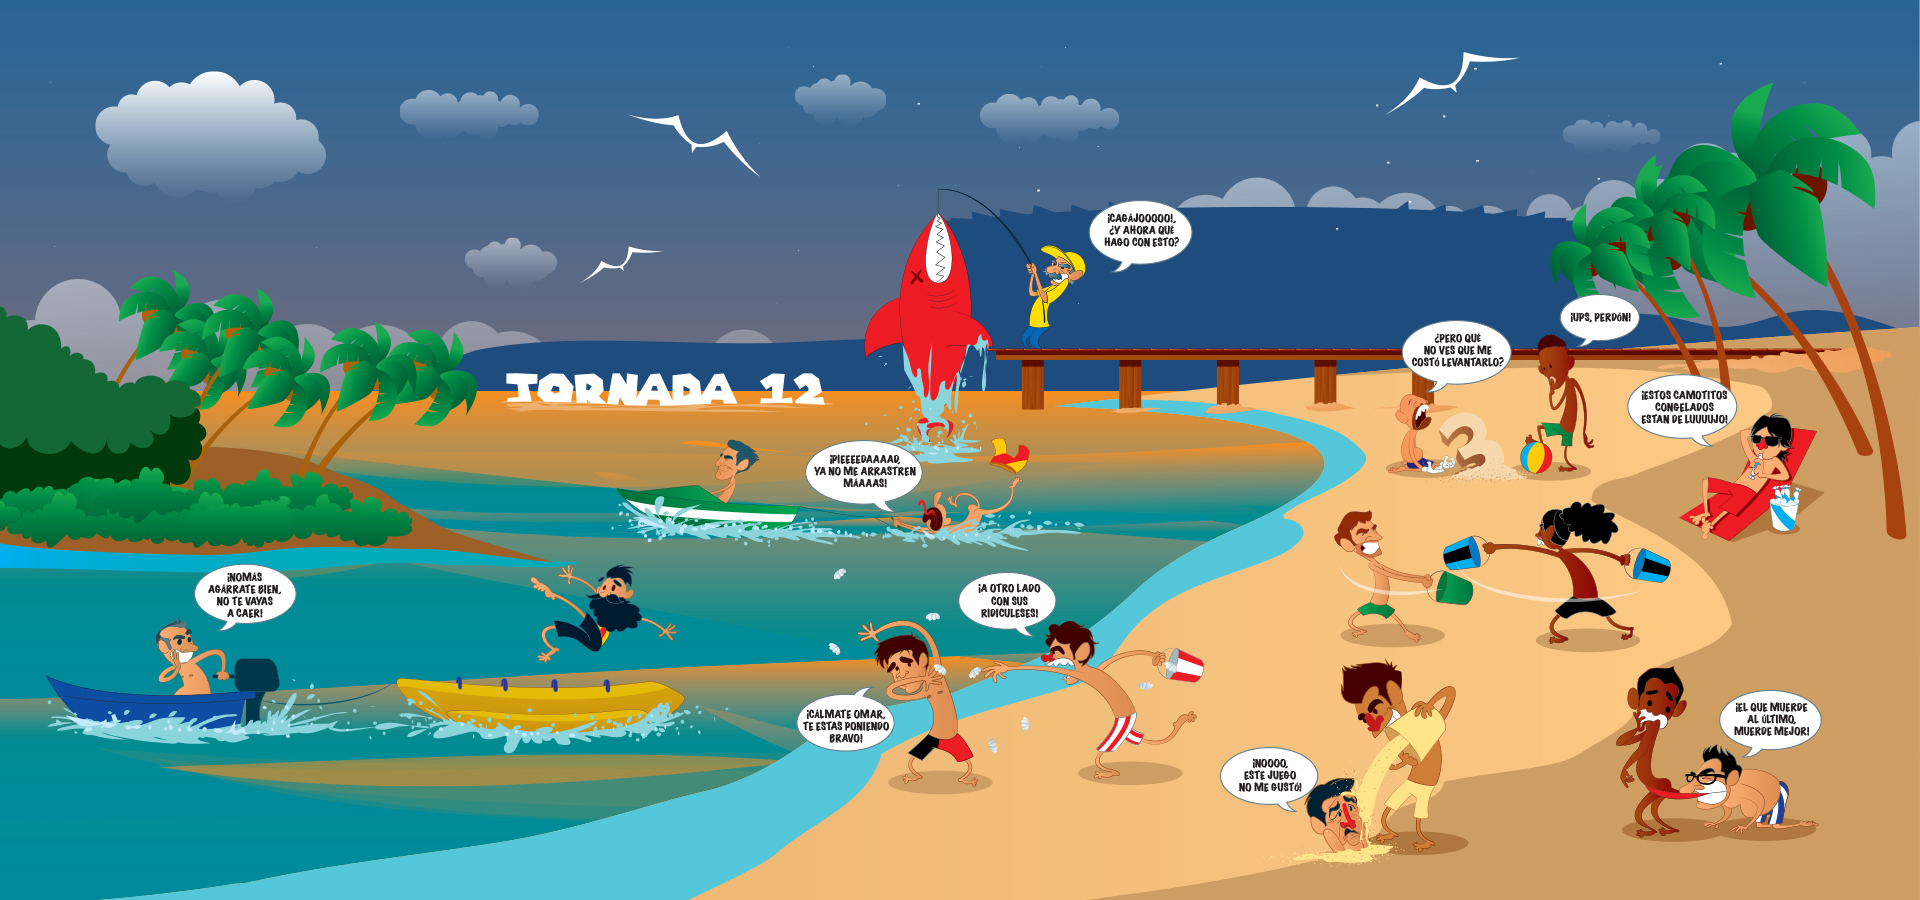
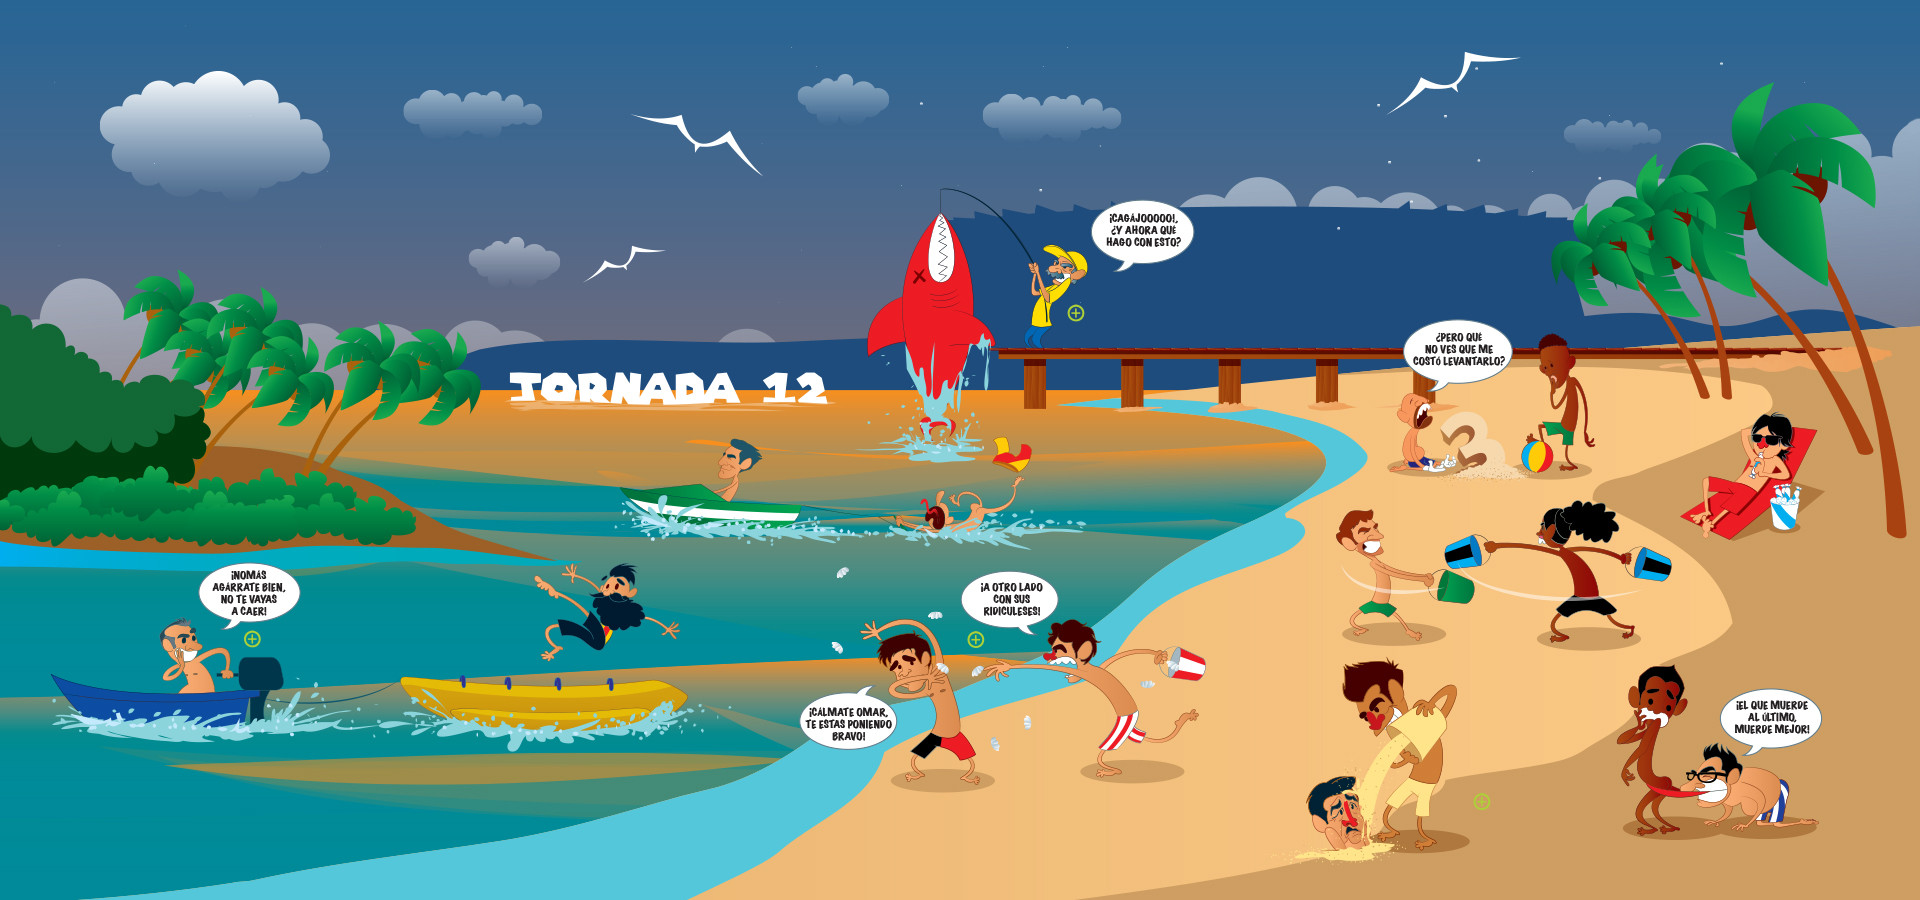
sdfdsfs

diff --git a/index.html b/index.html
@@ -29,7 +29,7 @@
 		<div class="indepth_pages">
 			<div class="indepth_share">
 				<a href="javascript:sharePopUp('fb', 'https://www.facebook.com/sharer.php?s=100&p[images][0]=http%3A%2F%2Fs3.amazonaws.com%2Fstadium-azteca%2Fpage%2F66bf9cfb-d0b3-4698-b6ad-2052267a76b7%2Ffinal%2Fimages%2FTop_1.png&p[url]=http%3A%2F%2Fjuanfutbol.com%2Findepth%2Fmundomx');"><div class="indepth_share_item facebook"></div></a>
-				<a href="javascript:sharePopUp('tw', 'https://twitter.com/share?via=juanfutbol&text=El%20mundo%20MX%20J13%20&url=http%3A%2F%2Fjuanfutbol.com%2Findepth%2Fmundomx');"><div class="indepth_share_item twitter"></div></a>
+				<a href="javascript:sharePopUp('tw', 'https://twitter.com/share?via=juanfutbol&text=El%20mundo%20MX%20J15%20&url=http%3A%2F%2Fjuanfutbol.com%2Findepth%2Fmundomx');"><div class="indepth_share_item twitter"></div></a>
 				<a href="whatsapp://send?text=Te presentamos el mundo MX por juanfutbol  http%3A%2F%2Fjuanfutbol.com%2Findepth%2Fmundomx"  target="_blank"><div class="indepth_share_item whatsapp"></div></a>
 				
 			</div>
@@ -43,7 +43,7 @@
 				</div>
 			</div>
 			<div class="indepth_cont indepth_content_top" id="scrolllll">
-				<div class="indepth_menu_j">
+				<div class="indepth_menu_j" style="display: none;">
 					<div class="indepth_menu_item main"></div>
 					<div class="indeprth_menu_container"></div>
 				</div>
@@ -138,6 +138,22 @@
 						
 					</div>
 					
+					<div class="indepth_imag_cont" id="jornada14">
+						<map name="j14">
+							
+						</map>
+						<img src="images/MUNDO-MX-J14.jpg" usemap="#j14"/>
+						
+					</div>
+					
+					<div class="indepth_imag_cont" id="jornada15">
+						<map name="j15">
+							
+						</map>
+						<img src="images/MUNDO-MX-J15.jpg" usemap="#j15"/>
+						
+					</div>
+					
 				</div>
 				
 			</div>
@@ -200,6 +216,14 @@
 						<img src="images/MUNDOMX_J13_7.jpg" id="image_j13_7" alt="MUNDO-MX-J3_1">
 						<img src="images/MUNDOMX_J13_8.jpg" id="image_j13_8" alt="MUNDO-MX-J3_1">
 						<img src="images/MUNDOMX_J13_9.jpg" id="image_j13_9" alt="MUNDO-MX-J3_1">
+						<img src="images/MUNDOMX_J14_1.jpg" id="image_j14_1" alt="MUNDO-MX-J3_1">
+						<img src="images/MUNDOMX_J14_2.jpg" id="image_j14_2" alt="MUNDO-MX-J3_1">
+						<img src="images/MUNDOMX_J14_3.jpg" id="image_j14_3" alt="MUNDO-MX-J3_1">
+						<img src="images/MUNDOMX_J14_4.jpg" id="image_j14_4" alt="MUNDO-MX-J3_1">
+						<img src="images/MUNDOMX_J15_1.jpg" id="image_j15_1" alt="MUNDO-MX-J3_1">
+						<img src="images/MUNDOMX_J15_2.jpg" id="image_j15_2" alt="MUNDO-MX-J3_1">
+						<img src="images/MUNDOMX_J15_3.jpg" id="image_j15_3" alt="MUNDO-MX-J3_1">
+						<img src="images/MUNDOMX_J15_4.jpg" id="image_j15_4" alt="MUNDO-MX-J3_1">
 					</div>
 				</div>
 				
@@ -215,7 +239,7 @@
 
 		<scripts>
 		<script type="text/javascript" src="js/jquery.touchSwipe.min.js"></script>
-			<script type="text/javascript" src="js/indepth.js?v=1.0.13"></script>
+			<script type="text/javascript" src="js/indepth.js?v=1.0.14"></script>
 		</scripts>
 	</body>
 </html>

diff --git a/js/indepth.js b/js/indepth.js
@@ -1,4 +1,4 @@
-var num_j=13;
+var num_j=15;
 var num_or=num_j;
 var num_d=num_j-1;
 var mobile=false;
@@ -7,12 +7,11 @@ var h=$(window).height();
 	
 
 
-if(w>h){
+/*if(w>h){
 $('.indepth_cont').animate({
 			scrollLeft: w*num_d
 		}, 1);
 		
-		console.log("w>h "+(w*num_d));
 		
 		
 }else{
@@ -21,12 +20,11 @@ $('.indepth_cont').animate({
 			scrollLeft: (w*((2*num_d)))
 		}, 1);
 		
-		console.log("else "+(w*((2*num_d))));
 		
 		num_d=(2*num_d);
 		
 		
-}
+}*/
 
 
 var disqus_shortname = 'juanfutbol';
@@ -148,6 +146,16 @@ var mapa_img = function(){
 	zoom("13", 1090, 300, 1280, 560, "7" );
 	zoom("13", 540, 520, 790, 800, "8" );
 	zoom("13", 1425, 345, 1630, 520, "9" );
+	
+	zoom("14", 610, 235, 800, 435, "1");
+	zoom("14", 925, 250, 1250 ,480,"2");
+	zoom("14", 890, 445, 1190, 720, "3" );
+	zoom("14", 1400, 535, 1825, 815, "4" );
+	
+	zoom("15", 390, 285, 637, 535, "2");
+	zoom("15", 180, 545, 555 ,730,"1");
+	zoom("15", 725, 175, 1360, 475, "3" );
+	zoom("15", 530, 535, 1230, 810, "4" );
 }
 
 

diff --git a/css/indepth.css b/css/indepth.css
@@ -189,6 +189,15 @@
 	
 }
 
+map{
+	cursor: zoom-in;
+}
+
+.indepth_image_zoom{
+	cursor: zoom-out;
+}
+
+
 .indepth_image_zoom_item{
 	display: table-cell;
 	vertical-align: middle;
